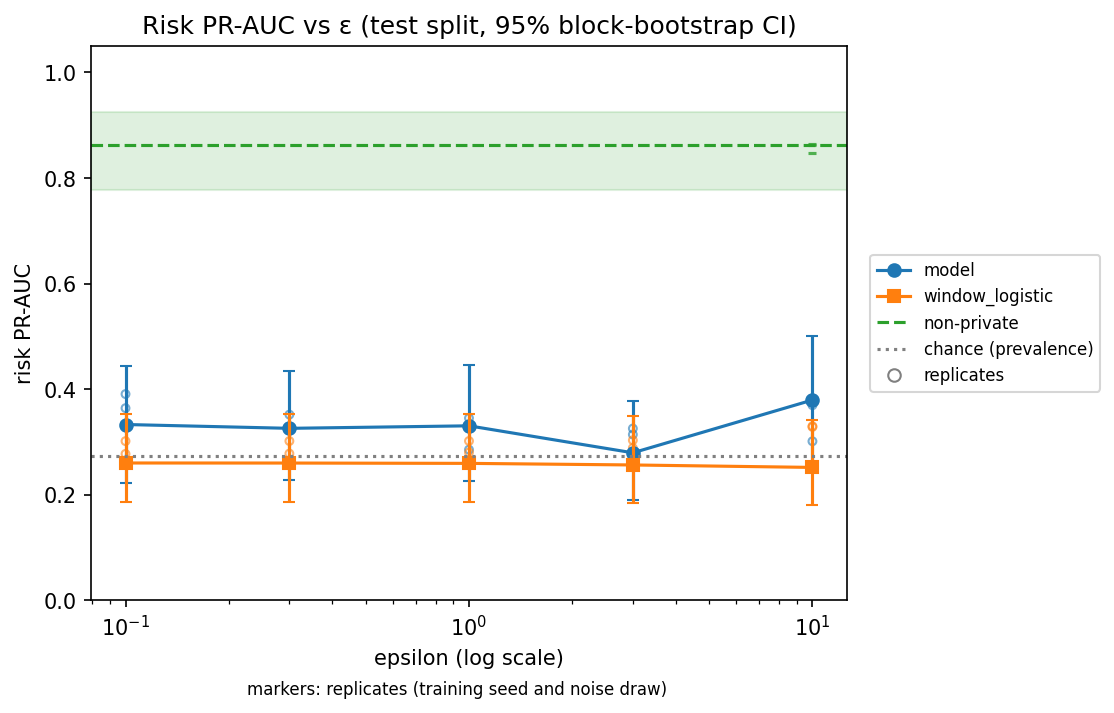
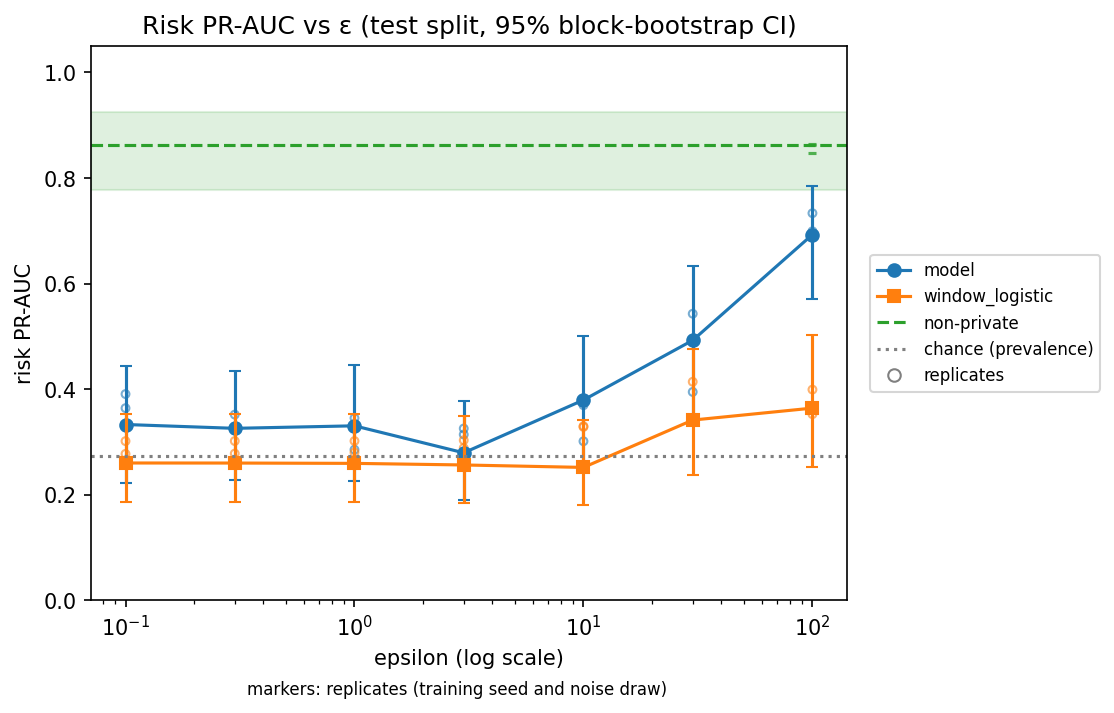
feat(eval): commit the tuning-seed privacy curve on the extended grid (DGNTY-8, DGNTY-40)
Results regenerated on a Colab L4 at 2de022f. Risk, forecast and policy metrics
are unchanged; privacy.json gains the points at epsilon 30 and 100.

docs/PRIVACY.md now says which grid points are at chance and which are above
it, names what holds across replicates, and scopes the earlier hard-preset
sentence to epsilon 1.0. The doc test asserts each of those sentences as text
and against the file, and pins the file's seed to the tuning seed.

diff --git a/tests/test_docs.py b/tests/test_docs.py
@@ -5,6 +5,8 @@ import json
 import re
 from pathlib import Path
 
+from core.config import EvalConfig
+
 ROOT = Path(__file__).resolve().parents[1]
 
 # Removed claims and removed API names. Matching is case-insensitive. The design
@@ -126,20 +128,57 @@ class TestDocs:
             assert "k-anonymity holds for the train release only" in text, path.name
 
     def test_privacy_curve_statement_matches_the_committed_results(self):
-        # PRIVACY.md says the private model is not distinguishable from chance at
-        # any epsilon on the grid. If regenerated results stop supporting that
-        # sentence, the sentence has to change with them.
+        # PRIVACY.md says which grid points are at chance and which are above it.
+        # If regenerated results stop supporting those sentences, they have to
+        # change with them.
         text = " ".join((ROOT / "docs/PRIVACY.md").read_text().split())
-        assert "PR-AUC not distinguishable from chance on the hard preset" in text
-        assert "Raising ε a hundredfold" in text
-        metrics = json.loads((ROOT / "results/v1.0/privacy.json").read_text())[
-            "metrics"
-        ]
+        for sentence in (
+            "On the tuning seed, the shipped allocation leaves the risk model's "
+            "PR-AUC not distinguishable from chance on the hard preset at every ε "
+            "on the grid up to 10, and above chance at the two largest grid values, "
+            "30 and 100",
+            "contains the prevalence",
+            "wholly below the non-private reference's interval",
+            "the interval lies wholly above the prevalence",
+            "PR-AUC is higher at 100 than at 30",
+            "both point estimates are below the reference's",
+            "every PR-AUC at ε = 100 is above every PR-AUC at a smaller ε",
+            "At ε = 30 the replicates spread more widely than the gap",
+            "the same allocation at ε = 1.0 leaves the model's PR-AUC not "
+            "distinguishable from chance on the tuning seed",
+            "up to ε = 10 its intervals do not all contain 0.5",
+            "Only the noise on `volume` changes along the curve",
+            "The rise at the two largest ε therefore comes from less noise on `volume`",
+        ):
+            assert sentence in text, sentence
+        payload = json.loads((ROOT / "results/v1.0/privacy.json").read_text())
+        assert payload["seed"] == EvalConfig().tuning_seed
+        metrics = payload["metrics"]
         reference = metrics["reference"]["risk"]
         chance = reference["prevalence"]["value"]
-        epsilons = [point["epsilon"] for point in metrics["points"]]
-        assert len(epsilons) >= 5 and max(epsilons) >= 100 * min(epsilons)
-        for point in metrics["points"]:
-            pr_auc = point["risk"]["pr_auc"]
-            assert pr_auc["ci_low"] <= chance <= pr_auc["ci_high"], point["epsilon"]
-            assert pr_auc["ci_high"] < reference["pr_auc"]["ci_low"], point["epsilon"]
+        points = {point["epsilon"]: point for point in metrics["points"]}
+        at_chance = [epsilon for epsilon in points if epsilon <= 10]
+        grid = "the sentences name the grid: every value up to 10, then 30 and 100"
+        assert max(at_chance) == 10 and 1.0 in at_chance, grid
+        assert sorted(points)[len(at_chance) :] == [30, 100], grid
+
+        def replicates(epsilon):
+            return points[epsilon]["replicate_spread"]["pr_auc"]["values"]
+
+        for epsilon in at_chance:
+            pr_auc = points[epsilon]["risk"]["pr_auc"]
+            assert pr_auc["ci_low"] <= chance <= pr_auc["ci_high"], epsilon
+            assert pr_auc["ci_high"] < reference["pr_auc"]["ci_low"], epsilon
+        for epsilon in (30, 100):
+            pr_auc = points[epsilon]["risk"]["pr_auc"]
+            assert pr_auc["ci_low"] > chance, epsilon
+            assert pr_auc["value"] < reference["pr_auc"]["value"], epsilon
+        values = {e: points[e]["risk"]["pr_auc"]["value"] for e in points}
+        assert values[100] > values[30] > max(values[e] for e in at_chance)
+        below_30 = max(max(replicates(e)) for e in at_chance)
+        assert min(replicates(100)) > max(below_30, max(replicates(30)))
+        assert (
+            max(replicates(30)) - min(replicates(30)) > min(replicates(30)) - below_30
+        )
+        aurocs = [points[e]["risk"]["auroc"] for e in at_chance]
+        assert not all(a["ci_low"] <= 0.5 <= a["ci_high"] for a in aurocs)

diff --git a/docs/PRIVACY.md b/docs/PRIVACY.md
@@ -185,8 +185,8 @@ risk model on easy-preset data (tuning seed, deterministic mode) with this block
 asserts validation AUROC >= 0.70 (chance is 0.5). It is a "still learns" guard on easy
 data at the shipped epsilon, not a point on the privacy curve. It does not test
 sensitivity to epsilon, and it says nothing about harder data: on the hard preset the
-same allocation leaves the model's PR-AUC not distinguishable from chance on the tuning
-seed (see *Privacy-versus-utility curve* below).
+same allocation at ε = 1.0 leaves the model's PR-AUC not distinguishable from chance on
+the tuning seed (see *Privacy-versus-utility curve* below).
 The floor was declared from tuning-seed validation
 evidence before the evaluation seed was touched. The path a user runs is pinned
 separately: `tests/test_train.py::TestPrivacyUtility::test_shipped_privacy_config_trains_through_the_cli_in_system_mode`
@@ -229,16 +229,31 @@ by k-anonymous generalization, which ε does not govern, and `price` is not cons
 ![privacy curve](img/privacy_curve.png)
 
 **On the tuning seed, the shipped allocation leaves the risk model's PR-AUC not
-distinguishable from chance on the hard preset, at every ε on the grid:** each point's
+distinguishable from chance on the hard preset at every ε on the grid up to 10, and
+above chance at the two largest grid values, 30 and 100:** up to ε = 10 each point's
 95% confidence interval for PR-AUC contains the prevalence (the chance line) and lies
-wholly below the non-private reference's interval. Test:
+wholly below the non-private reference's interval. At ε = 30 and ε = 100 the interval
+lies wholly above the prevalence, PR-AUC is higher at 100 than at 30, and both point
+estimates are below the reference's. These intervals are replicate 0's: one noise draw
+and one training seed. Across all three replicates, every PR-AUC at ε = 100 is above
+every PR-AUC at a smaller ε. At ε = 30 the replicates spread more widely than the gap
+between them and the points below, so the result there rests mainly on replicate 0's
+interval. Test:
 `tests/test_docs.py::TestDocs::test_privacy_curve_statement_matches_the_committed_results`.
-Raising ε a hundredfold, from the smallest grid value to the largest, does not change
-this. The statement is about PR-AUC. The file also carries AUROC, whose intervals sit
-close to 0.5 but do not all contain it. Which mechanism removes the signal has not been measured: it may be the noise on
-`volume` at these wide a-priori bounds, the generalization of `fee_rate` and `tx_count`,
-or both. The numbers are in `results/v1.0/privacy.json`; none are quoted here, because
-the release regenerates them on the evaluation seed.
+ε is per released value, and ε-differential privacy bounds the likelihood ratio between
+neighbouring inputs by e^ε. The two largest grid values are there to show where utility
+returns; they are not offered as a private setting.
+
+The statement is about PR-AUC. The file also carries AUROC, and up to ε = 10 its
+intervals do not all contain 0.5.
+
+Only the noise on `volume` changes along the curve; `fee_rate` and `tx_count` are
+generalized the same way at every point. The rise at the two largest ε therefore comes
+from less noise on `volume`. How much of the remaining gap to the reference comes from
+the generalization, from the `log1p` transform and clipping, or from the noise left at
+ε = 100 has not been measured. The numbers are in
+`results/v1.0/privacy.json`; no metric value is quoted here, because the release
+regenerates them on the evaluation seed.
 
 How the curve is produced (`python -m eval.run ... --privacy-sweep`; the Colab runbook
 in [RESULTS.md](RESULTS.md) runs it after the three tasks):
@@ -262,13 +277,14 @@ in [RESULTS.md](RESULTS.md) runs it after the three tasks):
   set (no `price` and no price signals), with the same training seeds. It is not the
   headline risk model of `results/v1.0/risk.json`, which uses the full feature set, so
   the gap on the chart is the cost of the privacy stage, not the distance from the
-  headline number.
+  headline number. The short dashes at the right edge are its per-seed values.
 - **Baseline.** `window_logistic` on this chart is fit on the released feature windows.
   The baseline of the same name in `risk.json` is fit on the raw columns.
 - **The shipped config is not a point on this curve.** Its ε of 1.0 is a grid value, but
   the curve runs on the hard preset with that preset's training settings
-  (`config/synthetic_hard.yaml`), not those of `config/train_risk.yaml`, and the floor
-  test above runs on the easy preset.
+  (`config/synthetic_hard.yaml`), not those of `config/train_risk.yaml`, with unrounded
+  public bounds and in seeded mode, and the floor test above runs on the easy preset.
+  `metrics.template` in the file is the block before that rescaling.
 
 These are tuning-seed results. The release regenerates the file and the chart on the
 evaluation seed.
